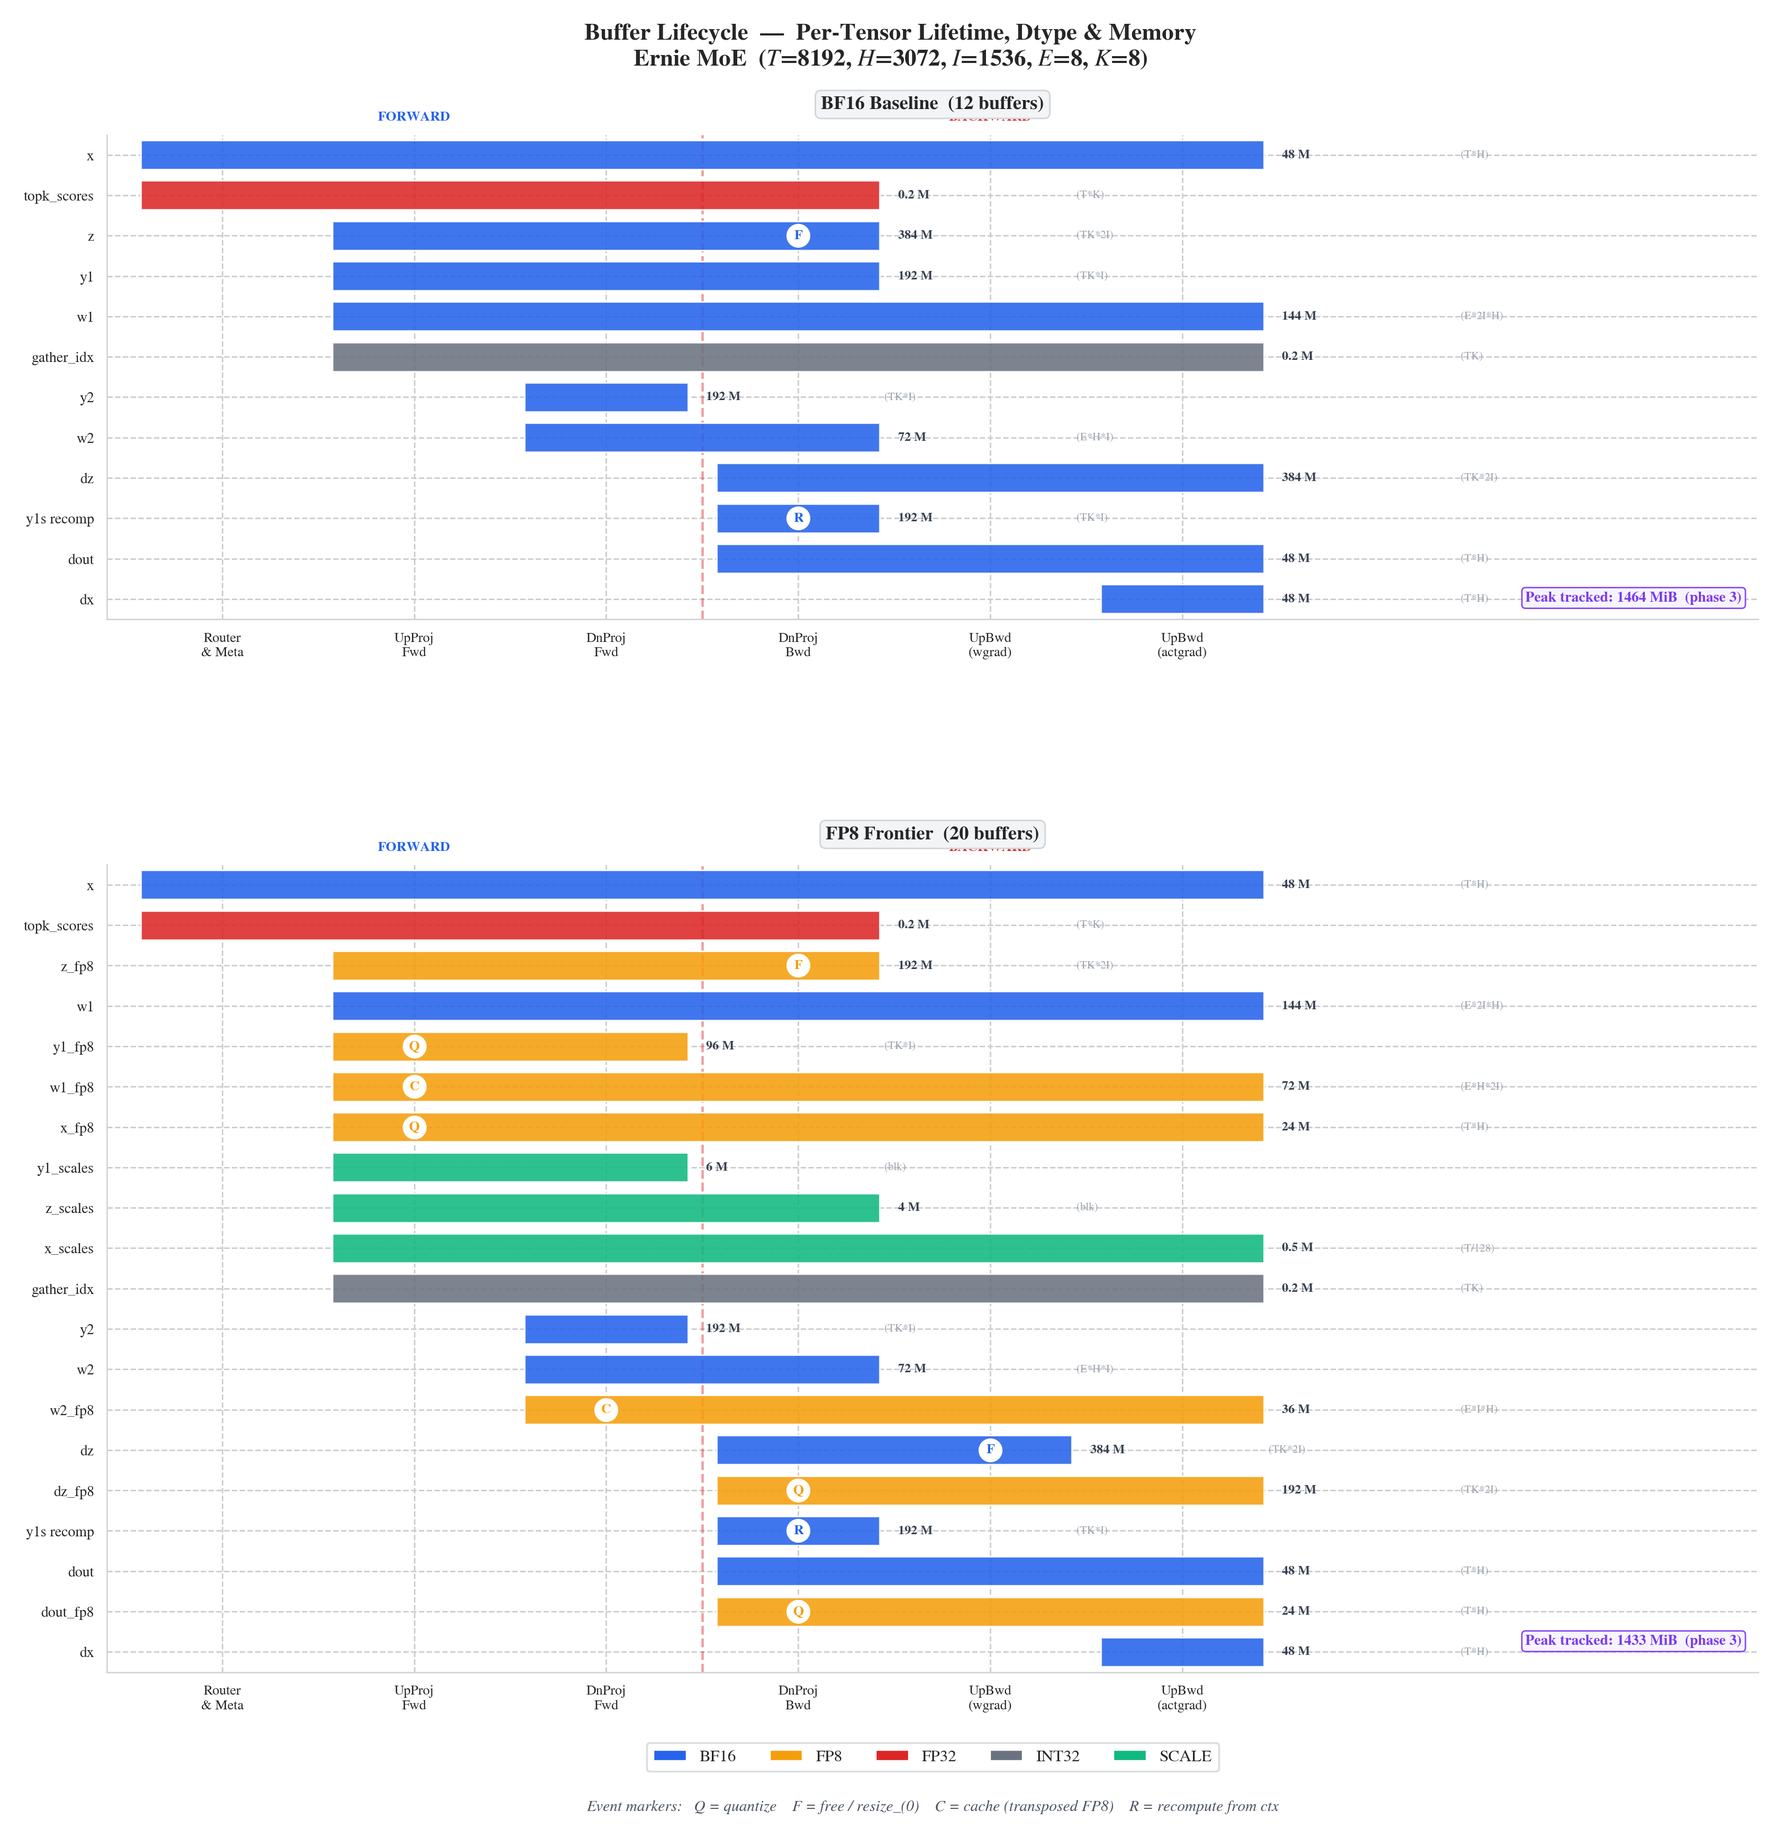
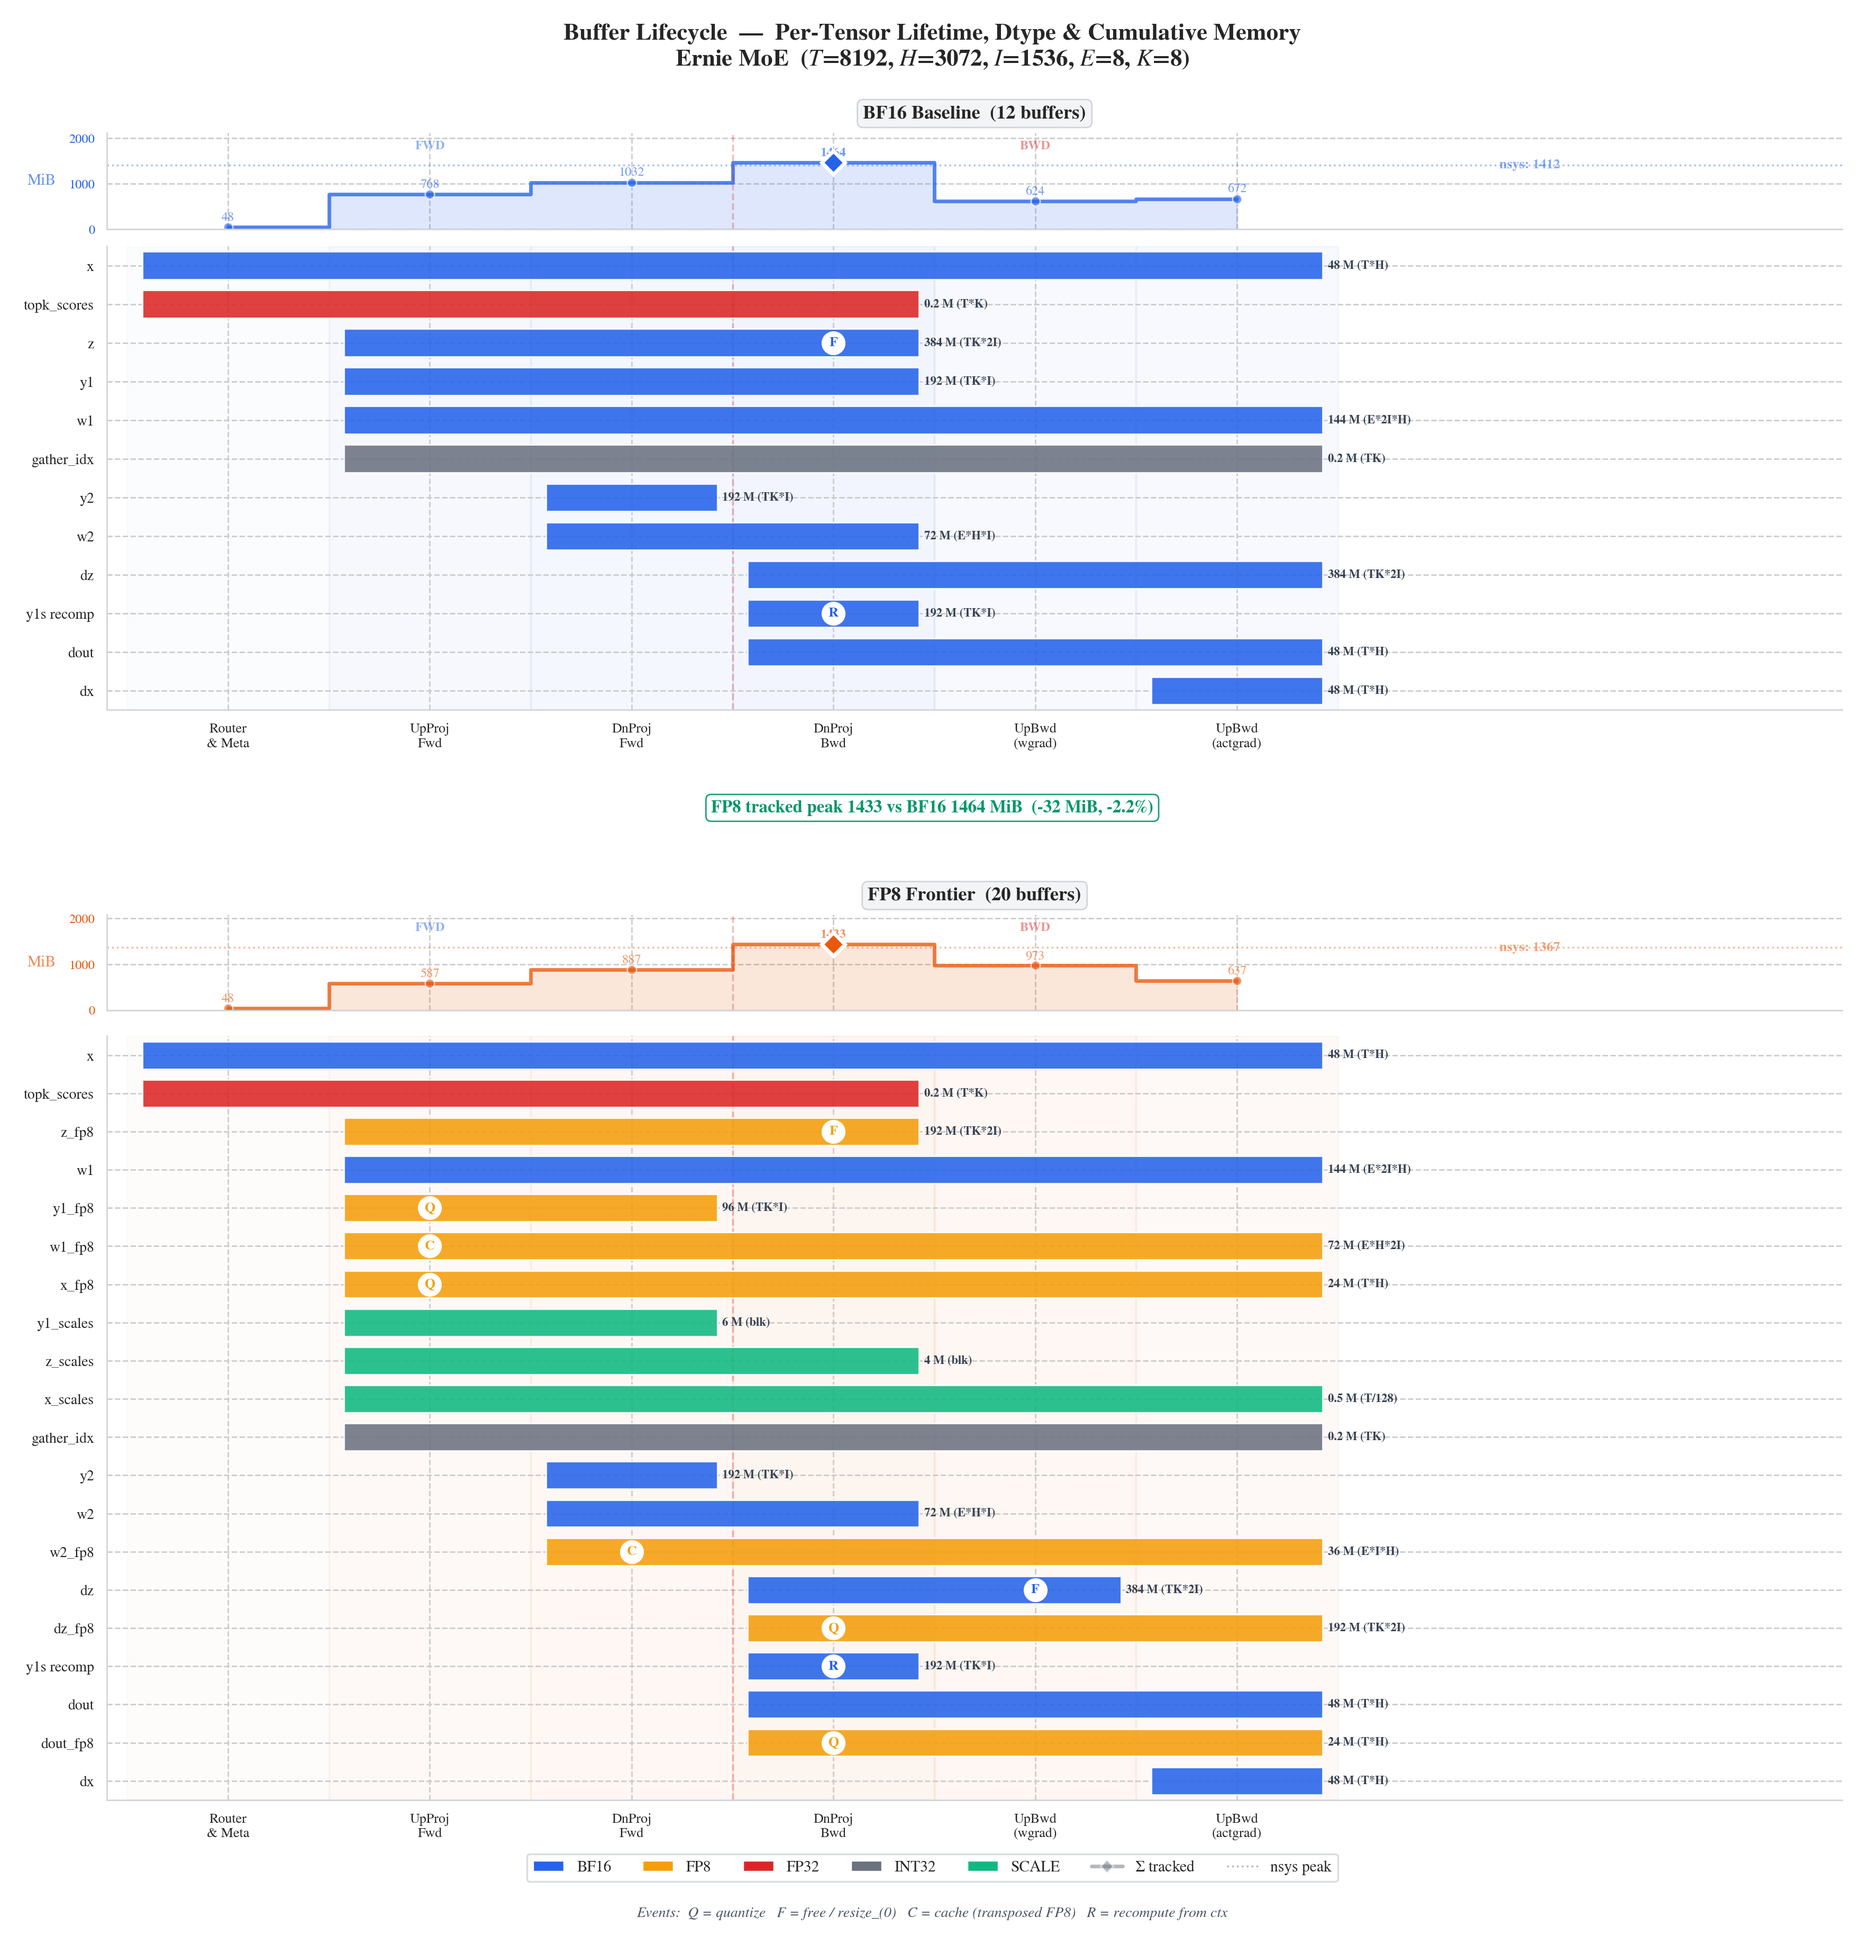
fig9: stacked memory strip + Gantt with phase-pressure shading
Redesigned buffer lifecycle chart for cleaner visual hierarchy:
- Narrow cumulative-memory area strip above each Gantt panel (shared x-axis)
  with per-phase MiB labels, peak diamond, nsys measured-peak reference line
- Pure Gantt bars below with subtle phase-intensity background tint
  (opacity proportional to cumulative MiB at each phase)
- Delta summary badge dynamically positioned in the inter-group gap
- Nested GridSpec layout: tight strip-Gantt coupling, wider group separation

diff --git a/visualization/sonicmoe_dataflow.py b/visualization/sonicmoe_dataflow.py
@@ -890,38 +890,95 @@ def _fp8_bufs() -> list[_Buf]:
     ]
 
 
-def _draw_gantt(ax: plt.Axes, bufs: list[_Buf], title: str) -> None:
-    """Render per-buffer Gantt: dtype-coloured bars, event glyphs, peak badge."""
+def _draw_mem_strip(ax: plt.Axes, bufs: list[_Buf], title: str, *,
+                    mode_color: str = C_BF16,
+                    measured_peak: float = 0) -> float:
+    """Narrow cumulative-memory area strip (sits above its Gantt panel).
+
+    Returns tracked peak MiB for cross-panel delta annotation.
+    """
+    phase_mem = np.array([
+        sum(b.mib for b in bufs if b.alive[0] <= p <= b.alive[1])
+        for p in range(N_PH)])
+    peak_ph = int(np.argmax(phase_mem))
+    peak_v = float(phase_mem[peak_ph])
+    xs = np.arange(N_PH)
+
+    ax.fill_between(xs, phase_mem, alpha=0.15, color=mode_color, step="mid")
+    ax.step(xs, phase_mem, where="mid", color=mode_color, lw=2.0, alpha=0.75)
+    ax.plot(xs, phase_mem, "o", color=mode_color, ms=5, alpha=0.65,
+            markeredgecolor="white", markeredgewidth=0.8)
+
+    for xi, mi in zip(xs, phase_mem):
+        ax.text(xi, mi + peak_v * 0.06, f"{mi:.0f}",
+                ha="center", va="bottom", fontsize=7,
+                color=mode_color, alpha=0.65,
+                fontweight="bold" if xi == peak_ph else "normal")
+
+    ax.plot(peak_ph, peak_v, "D", color=mode_color, ms=9,
+            markeredgecolor="white", markeredgewidth=2, zorder=5)
+
+    if measured_peak > 0:
+        ax.axhline(measured_peak, color=mode_color, lw=1.0, ls=":",
+                   alpha=0.40)
+        ax.text(N_PH + 0.3, measured_peak, f"nsys: {measured_peak:.0f}",
+                fontsize=7.5, color=mode_color, alpha=0.55,
+                fontweight="bold", va="center")
+
+    ymax = max(peak_v, measured_peak if measured_peak else 0) * 1.45
+    ax.set_ylim(0, ymax)
+    ax.set_ylabel("MiB", fontsize=8.5, color=mode_color, alpha=0.7,
+                  rotation=0, labelpad=15, va="center")
+    ax.tick_params(axis="y", colors=mode_color, labelsize=7, length=3)
+
+    ax.axvline(2.5, color=C_COST, lw=1.0, ls="--", alpha=0.30)
+    ax.text(1.0, ymax * 0.92, "FWD", fontsize=7, fontweight="bold",
+            color=C_BF16, ha="center", va="top", alpha=0.50)
+    ax.text(4.0, ymax * 0.92, "BWD", fontsize=7, fontweight="bold",
+            color=C_COST, ha="center", va="top", alpha=0.50)
+
+    ax.set_xlim(-0.6, N_PH + 2.0)
+    ax.set_xticks(range(N_PH))
+    ax.tick_params(axis="x", labelbottom=False, length=0)
+
+    ax.set_title(title, fontsize=10.5, fontweight="bold", pad=8,
+                 bbox=dict(boxstyle="round,pad=0.3", fc=C_LIGHT,
+                           ec="#D1D5DB", lw=0.8))
+    return peak_v
+
+
+def _draw_gantt(ax: plt.Axes, bufs: list[_Buf], *,
+                mode_color: str = C_BF16) -> None:
+    """Render per-buffer Gantt bars with subtle phase-pressure shading."""
     bufs = sorted(bufs, key=lambda b: (b.alive[0], -b.mib))
     n = len(bufs)
+    _GL = {"\u26a1": "Q", "\u2298": "F", "\u2192": "C", "\u21bb": "R"}
 
-    # Glyph label mapping (ASCII fallback for fonts without full Unicode)
-    _GLYPH_LABEL = {
-        "\u26a1": "Q",   # ⚡ quantize
-        "\u2298": "F",   # ⊘ free / resize_(0)
-        "\u2192": "C",   # → cache
-        "\u21bb": "R",   # ↻ recompute
-    }
+    # Subtle per-phase background tint (intensity ~ cumulative MiB)
+    phase_mem = np.array([
+        sum(b.mib for b in bufs if b.alive[0] <= p <= b.alive[1])
+        for p in range(N_PH)])
+    peak_v = phase_mem.max()
+    if peak_v > 0:
+        for p in range(N_PH):
+            ax.axvspan(p - 0.5, p + 0.5, color=mode_color,
+                       alpha=0.015 + (phase_mem[p] / peak_v) * 0.045,
+                       zorder=0)
 
     for i, buf in enumerate(bufs):
         s, e = buf.alive
         ax.barh(i, e - s + 0.85, left=s - 0.425, height=0.72,
                 color=_DTYPE_CLR[buf.dtype], alpha=0.88,
-                edgecolor="white", linewidth=0.9, zorder=3)
-        # MiB label — right of bar
+                edgecolor="white", linewidth=0.9, zorder=4)
         lbl = f"{buf.mib:.0f}" if buf.mib >= 1 else f"{buf.mib:.1f}"
-        ax.text(e + 0.52, i, f"{lbl} M", va="center", fontsize=7,
-                color="#374151", fontweight="bold")
-        # Shape annotation — further right, lighter
-        ax.text(e + 1.45, i, f"({buf.shape})", va="center", fontsize=6,
-                color="#9CA3AF")
-        # Event glyphs: white circle marker + letter code
+        ax.text(e + 0.45, i, f"{lbl} M ({buf.shape})", va="center",
+                fontsize=6.5, color="#374151", fontweight="bold")
         for ph, sym in buf.events:
-            code = _GLYPH_LABEL.get(sym, sym)
-            ax.plot(ph, i, "o", color="white", ms=13, mew=0, zorder=5)
+            code = _GL.get(sym, sym)
+            ax.plot(ph, i, "o", color="white", ms=13, mew=0, zorder=6)
             ax.text(ph, i, code, ha="center", va="center",
                     fontsize=7.5, color=_DTYPE_CLR[buf.dtype],
-                    fontweight="bold", zorder=6)
+                    fontweight="bold", zorder=7)
 
     ax.set_yticks(range(n))
     ax.set_yticklabels([b.name for b in bufs], fontsize=8)
@@ -929,60 +986,76 @@ def _draw_gantt(ax: plt.Axes, bufs: list[_Buf], title: str) -> None:
     ax.set_xticklabels(PHASES, fontsize=7.5)
     ax.set_xlim(-0.6, N_PH + 2.0)
     ax.set_ylim(n - 0.5, -0.5)
-
-    # fwd / bwd divider
-    ax.axvline(2.5, color=C_COST, lw=1.3, ls="--", alpha=0.45, zorder=2)
-    ax.text(1.0, -0.85, "FORWARD", fontsize=7.5, fontweight="bold",
-            color=C_BF16, ha="center", clip_on=False)
-    ax.text(4.0, -0.85, "BACKWARD", fontsize=7.5, fontweight="bold",
-            color=C_COST, ha="center", clip_on=False)
-
-    # Peak tracked memory badge
-    phase_mem = [sum(b.mib for b in bufs if b.alive[0] <= p <= b.alive[1])
-                 for p in range(N_PH)]
-    peak_ph = int(np.argmax(phase_mem))
-    peak_mib = phase_mem[peak_ph]
-    ax.text(0.99, 0.03,
-            f"Peak tracked: {peak_mib:.0f} MiB  (phase {peak_ph})",
-            transform=ax.transAxes, fontsize=8, fontweight="bold",
-            color=C_ACCENT, ha="right", va="bottom",
-            bbox=dict(boxstyle="round,pad=0.25", fc="#F5F3FF",
-                      ec=C_ACCENT, lw=0.8, alpha=0.9))
-
-    ax.set_title(title, fontsize=10.5, fontweight="bold", pad=14,
-                 bbox=dict(boxstyle="round,pad=0.3", fc=C_LIGHT,
-                           ec="#D1D5DB", lw=0.8))
+    ax.axvline(2.5, color=C_COST, lw=1.0, ls="--", alpha=0.30, zorder=1)
 
 
 def fig9_buffer_lifecycle() -> None:
-    """Per-buffer lifecycle Gantt: dtype-coloured bars, events, cumulative MiB."""
+    """Per-buffer lifecycle Gantt with cumulative memory strip above each panel."""
     bf16, fp8 = _bf16_bufs(), _fp8_bufs()
+    n_b, n_f = len(bf16), len(fp8)
 
-    fig, (ax1, ax2) = plt.subplots(
-        2, 1, figsize=(16, 14),
-        gridspec_kw={"height_ratios": [len(bf16), len(fp8)], "hspace": 0.38},
-    )
-    fig.subplots_adjust(top=0.91, bottom=0.08, left=0.13, right=0.91)
+    fig = plt.figure(figsize=(16, 15))
+    fig.subplots_adjust(top=0.90, bottom=0.06, left=0.11, right=0.93)
 
-    _draw_gantt(ax1, bf16, f"BF16 Baseline  ({len(bf16)} buffers)")
-    _draw_gantt(ax2, fp8,  f"FP8 Frontier  ({len(fp8)} buffers)")
+    outer = fig.add_gridspec(2, 1, hspace=0.28,
+                             height_ratios=[n_b + 3, n_f + 3])
+    gs_b = outer[0].subgridspec(2, 1, height_ratios=[1.5, n_b * 0.6],
+                                hspace=0.06)
+    gs_f = outer[1].subgridspec(2, 1, height_ratios=[1.5, n_f * 0.6],
+                                hspace=0.06)
 
-    # Shared dtype legend
-    patches = [Patch(facecolor=_DTYPE_CLR[d], edgecolor="white", label=d)
-               for d in ["BF16", "FP8", "FP32", "INT32", "SCALE"]]
-    fig.legend(handles=patches, loc="lower center", ncol=5, fontsize=9,
+    ax_mem_b = fig.add_subplot(gs_b[0])
+    ax_gantt_b = fig.add_subplot(gs_b[1])
+    ax_mem_f = fig.add_subplot(gs_f[0])
+    ax_gantt_f = fig.add_subplot(gs_f[1])
+
+    pk_b = _draw_mem_strip(ax_mem_b, bf16,
+                           f"BF16 Baseline  ({n_b} buffers)",
+                           mode_color=C_BF16, measured_peak=1412)
+    _draw_gantt(ax_gantt_b, bf16, mode_color=C_BF16)
+
+    pk_f = _draw_mem_strip(ax_mem_f, fp8,
+                           f"FP8 Frontier  ({n_f} buffers)",
+                           mode_color=C_FP8, measured_peak=1367)
+    _draw_gantt(ax_gantt_f, fp8, mode_color=C_FP8)
+
+    # Delta summary — placed in the gap between groups
+    pos_gb = ax_gantt_b.get_position()
+    pos_mf = ax_mem_f.get_position()
+    gap_y = (pos_gb.y0 + pos_mf.y1) / 2
+    delta = pk_f - pk_b
+    pct = delta / pk_b * 100
+    fig.text(0.50, gap_y,
+             f"FP8 tracked peak {pk_f:.0f} vs BF16 {pk_b:.0f} MiB  "
+             f"({delta:+.0f} MiB, {pct:+.1f}%)",
+             ha="center", fontsize=9.5, fontweight="bold",
+             color=C_SAVE if delta < 0 else C_COST,
+             bbox=dict(boxstyle="round,pad=0.3", fc="white",
+                       ec=C_SAVE if delta < 0 else C_COST,
+                       lw=0.8, alpha=0.9))
+
+    # ── Shared legend ───────────────────────────────────────────────────
+    from matplotlib.lines import Line2D
+    handles: list = [Patch(facecolor=_DTYPE_CLR[d], edgecolor="white", label=d)
+                     for d in ["BF16", "FP8", "FP32", "INT32", "SCALE"]]
+    handles.append(Line2D([0], [0], color=C_NEUTRAL, lw=2, alpha=0.5,
+                          marker="D", ms=5, markeredgecolor="white",
+                          label="$\\Sigma$ tracked"))
+    handles.append(Line2D([0], [0], color=C_NEUTRAL, lw=1, ls=":",
+                          alpha=0.5, label="nsys peak"))
+    fig.legend(handles=handles, loc="lower center", ncol=7, fontsize=8.5,
                frameon=True, edgecolor="#D1D5DB",
-               bbox_to_anchor=(0.52, 0.022))
+               bbox_to_anchor=(0.50, 0.015))
 
-    fig.text(0.52, 0.005,
-             "Event markers:   Q = quantize    F = free / resize_(0)    "
-             "C = cache (transposed FP8)    R = recompute from ctx",
-             ha="center", fontsize=8.5, color="#4B5563", style="italic")
+    fig.text(0.50, 0.001,
+             "Events:  Q = quantize   F = free / resize_(0)   "
+             "C = cache (transposed FP8)   R = recompute from ctx",
+             ha="center", fontsize=8, color="#4B5563", style="italic")
 
     fig.suptitle(
-        "Buffer Lifecycle  \u2014  Per-Tensor Lifetime, Dtype & Memory\n"
-        f"{_SUB}",
-        fontsize=13, fontweight="bold", y=0.97)
+        "Buffer Lifecycle  \u2014  Per-Tensor Lifetime, Dtype "
+        "& Cumulative Memory\n" f"{_SUB}",
+        fontsize=13, fontweight="bold", y=0.955)
     _save(fig, "fig9_buffer_lifecycle.png")
 
 
